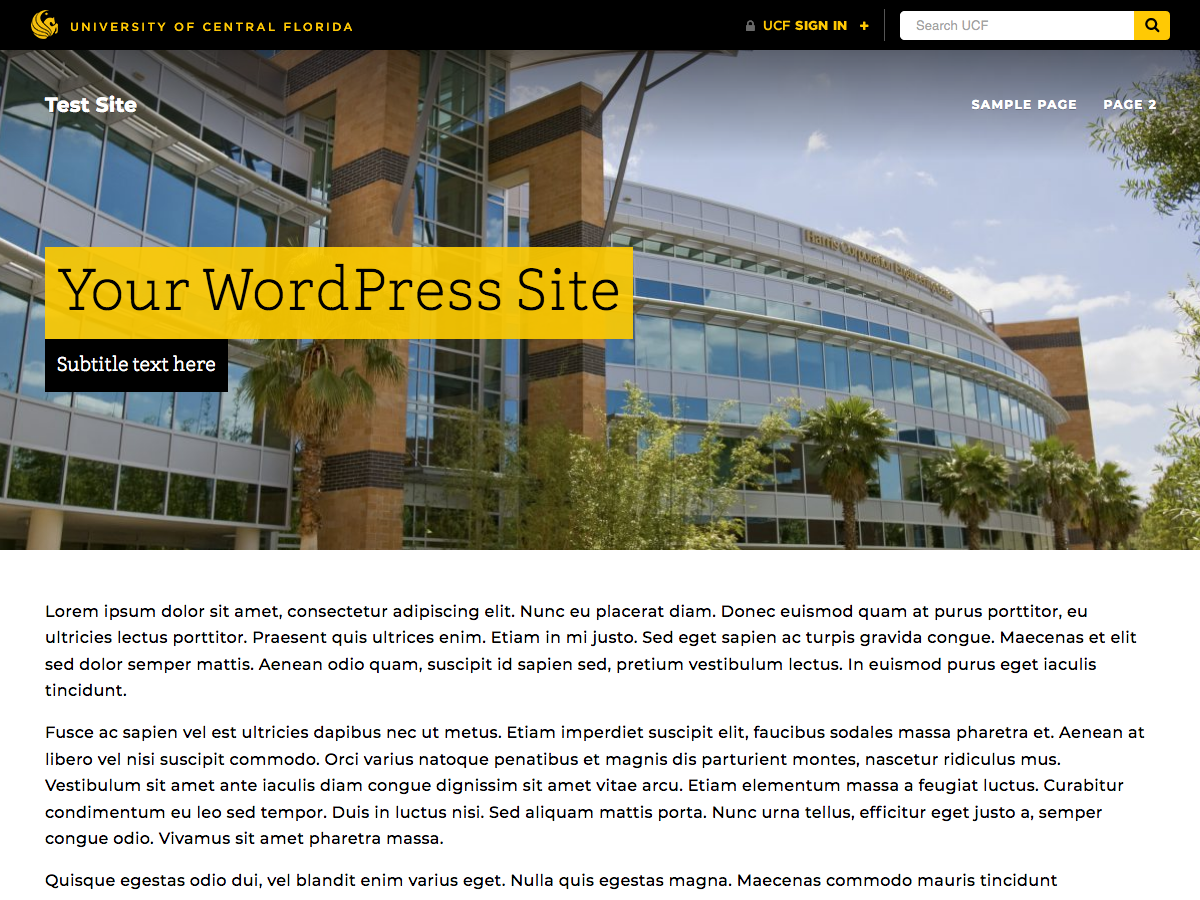
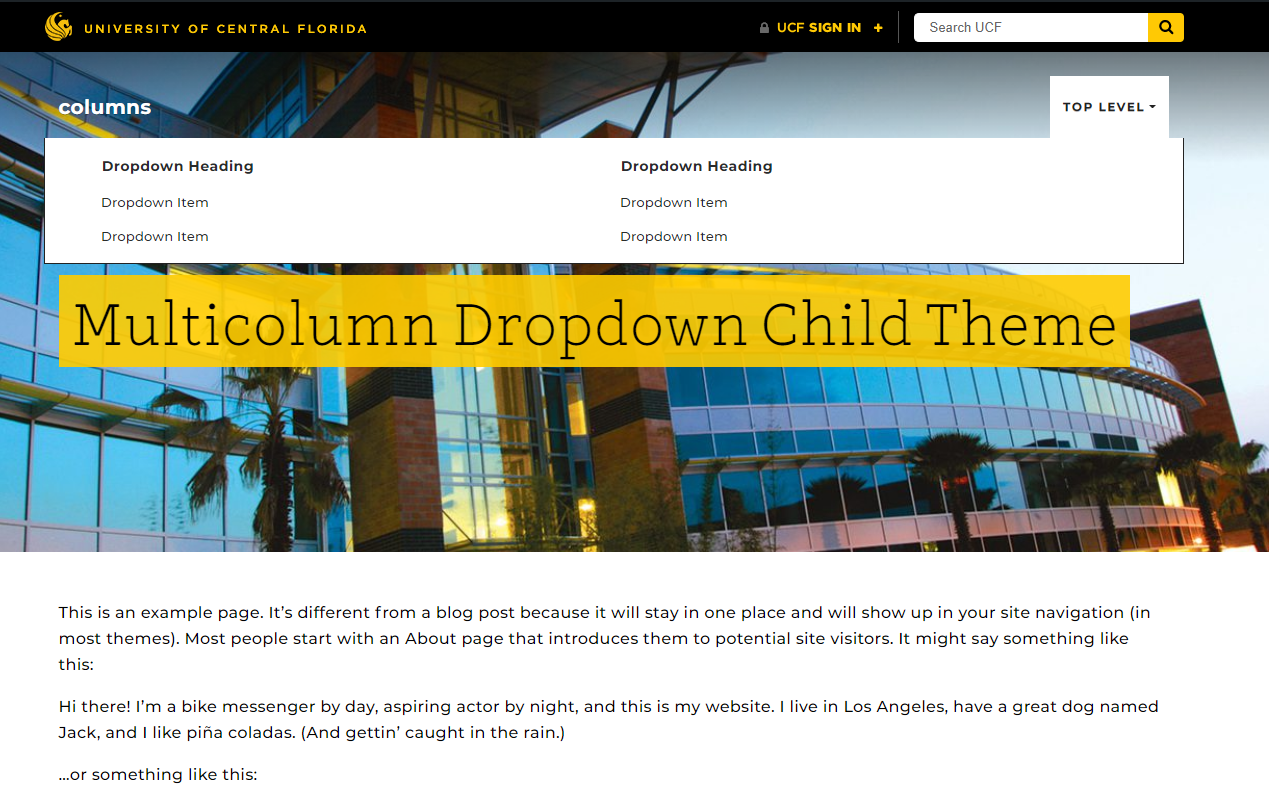
added new screenshot.png to demonstrate dropdown

diff --git a/style.css b/style.css
@@ -4,7 +4,7 @@ Description: UCF-WordPress-Theme child theme that incorporates the COMmulti-colu
 Template: UCF-WordPress-Theme
 Author: Paul Sepulveda
 Github Theme URI: https://github.com/paulgsepulveda/UCF-WP-Multicolumn-Dropdown-Child-Theme
-Version: v1.0.1
+Version: v1.0.2
 */
 
 
